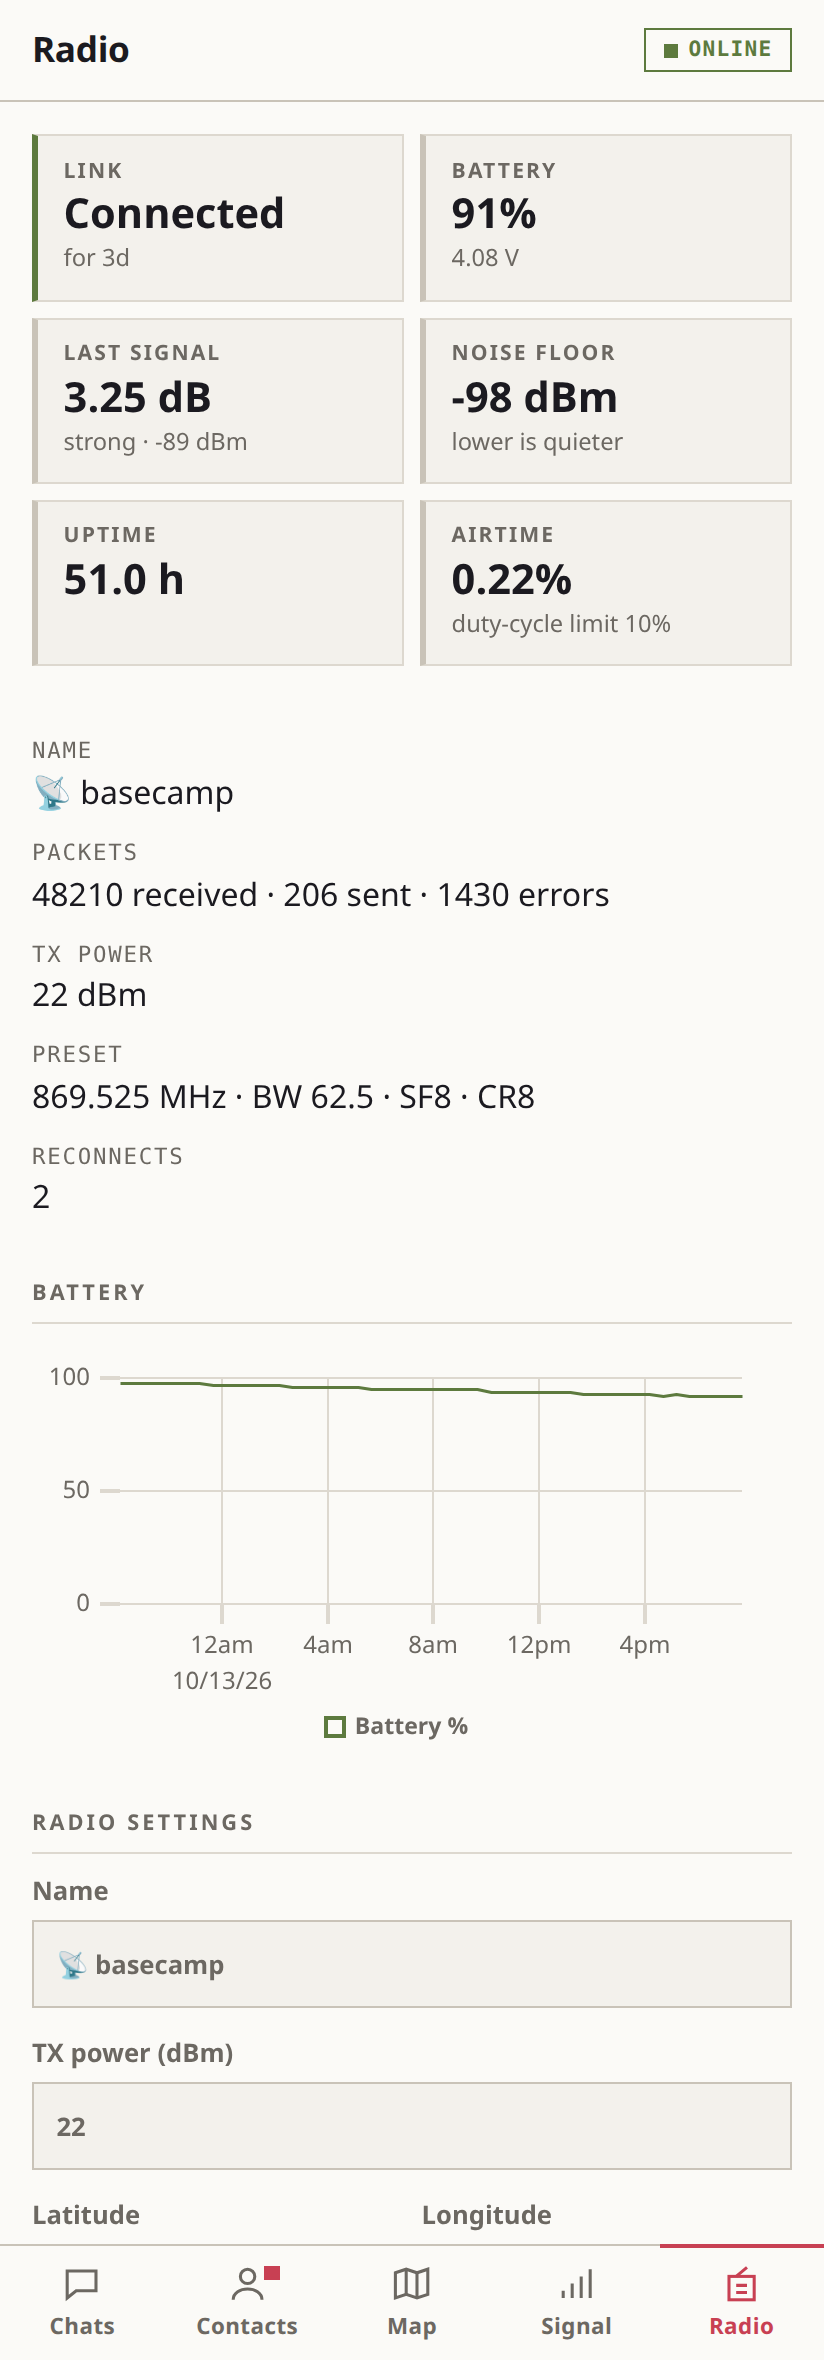
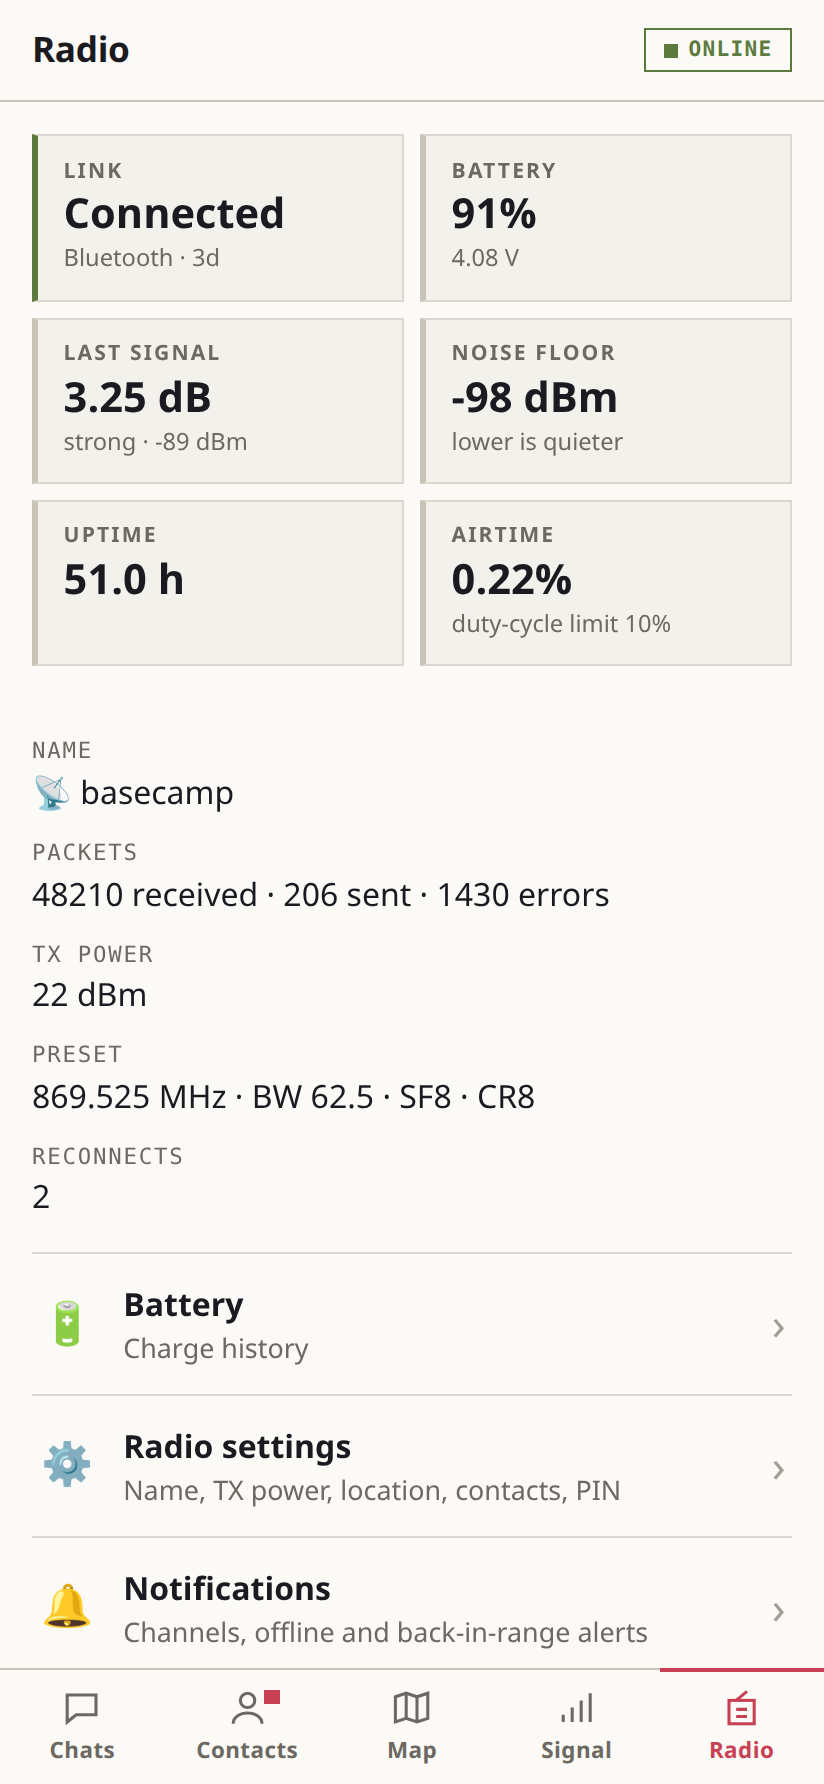
v1.14.1: README screenshots for the Signal and Radio menus

diff --git a/README.md b/README.md
@@ -20,8 +20,8 @@ A self-hosted web app for your [MeshCore](https://meshcore.io) LoRa radio. A sma
 </tr>
 <tr>
 <td align="center"><img src="docs/screenshots/contacts.png" alt="Contacts"><br><sub><b>Contacts</b> — favourites, nearby now, 1/2-byte path badges</sub></td>
-<td align="center"><img src="docs/screenshots/signal.png" alt="Signal"><br><sub><b>Signal</b> — link health card and SNR / error / airtime charts</sub></td>
-<td align="center"><img src="docs/screenshots/radio.png" alt="Radio"><br><sub><b>Radio</b> — status tiles, battery %, settings, appearance</sub></td>
+<td align="center"><img src="docs/screenshots/signal.png" alt="Signal"><br><sub><b>Signal</b> — link health card, then charts, who you hear and live packets</sub></td>
+<td align="center"><img src="docs/screenshots/radio.png" alt="Radio"><br><sub><b>Radio</b> — status tiles, then settings, notifications, filters and more</sub></td>
 </tr>
 <tr>
 <td align="center"><img src="docs/screenshots/placement.png" alt="Placement mode"><br><sub><b>Placement mode</b> — live signal to every repeater, save and compare spots</sub></td>
